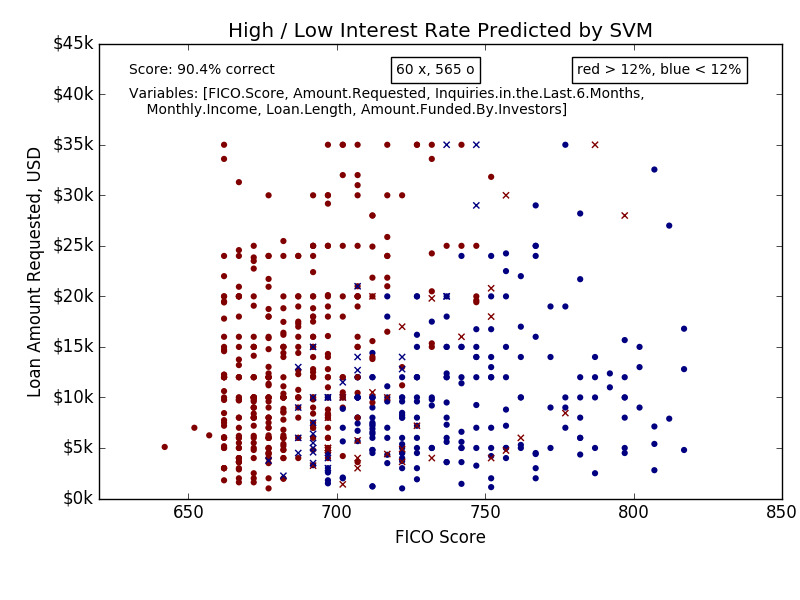
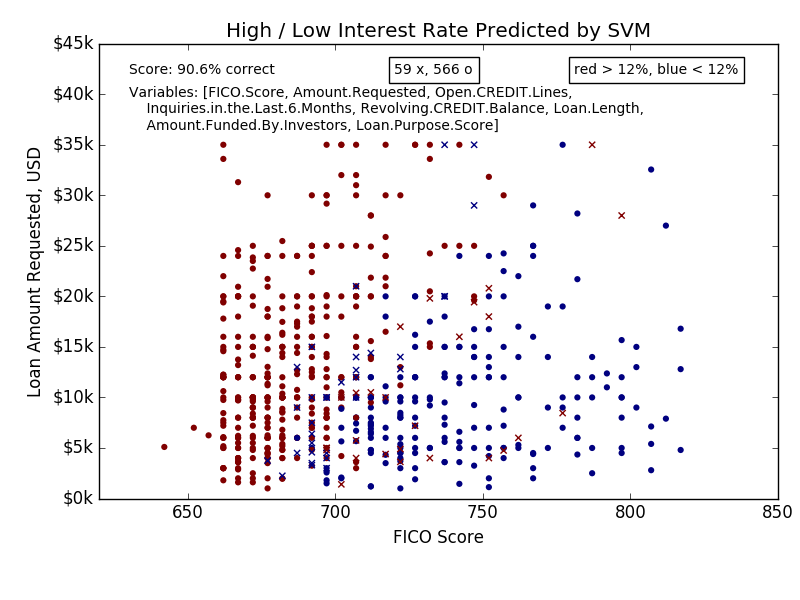
add score, run_opt to log_reg_sm, refactor svm_predict run_opt

diff --git a/logistic_regression_sm.py b/logistic_regression_sm.py
@@ -1,11 +1,22 @@
 # unit 2.4 logistic regression
 
 import numpy as np
+import numpy.random as rnd
 import statsmodels.api as sm
 import pandas as pd
 import matplotlib.pyplot as plt
 import re
 import os
+
+from svm_predict import plot_predict
+
+def get_app_title():
+    "get app title"
+    return 'Logit Regression'
+
+def get_app_file():
+    "get app file prefix"
+    return 'lr_sm_'
 
 def read_data():
     # loansData = pd.read_csv('https://spark-public.s3.amazonaws.com/dataanalysis/loansData.csv')
@@ -84,7 +95,7 @@ def make_plotdir():
 #       logistic distribution, while the probit is the quantile function
 #       of the normal distribution.  See https://en.wikipedia.org/wiki/Logit
 
-def do_logit(loansData, indep_variables):
+def do_logit(loansData, indep_variables, print_out=False):
     # Probability isn't binary, *assume* p<70% won't get the loan.
     #   if p >= 0.70 then 1, else 0
     # Try to calculate Interest.Rate, a dependent variable?
@@ -98,20 +109,29 @@ def do_logit(loansData, indep_variables):
     #    -calculate probability then p <= 12%
     # interest_rate = b + a1 * FICO.Score + a2 * Amount.Requested
     #               = b + a1 * 750 + a2 * 10000
-    print('''interest_rate = b + a1 * FICO.Score + a2 * Amount.Requested
-                  = b + a1 * 750 + a2 * 10000''')
-    print('find p(x) = 1 / (1 + exp(a1*x1 + a2*x2 + b))  "logistic function"')
+    if print_out:
+        print('''interest_rate = b + a1 * FICO.Score + a2 * Amount.Requested
+                      = b + a1 * 750 + a2 * 10000''')
+        print('find p(x) = 1 / (1 + exp(a1*x1 + a2*x2 + b))  "logistic function"')
     
     dep_variables = ['IR_TF']
 #    indep_variables = ['FICO.Score', 'Amount.Requested', 'Intercept']
-    print('Dependent Variable(s):', dep_variables)
-    print('Independent Variables:', indep_variables)
+    if print_out:
+        print('Dependent Variable(s):', dep_variables)
+        print('Independent Variables:', indep_variables)
     
     logit = sm.Logit( loansData['IR_TF'], loansData[indep_variables] )
-    result = logit.fit()
-    print('fit coefficients class', result.params.__class__ , '\n', result.params)
-    print('result index', result.params.index, '\nresult values', result.params.values)
+    result = logit.fit()    # noisy output
+    if print_out:
+        print('fit coefficients class', result.params.__class__ , '\n', result.params)
+        print('result index', result.params.index, '\nresult values', result.params.values)
+
     return result
+
+def fit_logit(loansData, numeric_vars, cutoff=0.5):
+    result = do_logit(loansData, numeric_vars)
+    score, loansData = get_logistic_prob(loansData, result.params, cutoff)
+    return score, result, loansData
 
 # Why do coefficients have opposite sign?  IR_TF lambda is backwards?
 
@@ -206,57 +226,125 @@ def plot_loan_fico(loansData, result, plotdir):
     # plt.legend(['red > 12% interest, blue < 12% interest'])
     plt.savefig(plotdir+'loan_v_fico.png')
 
-#def logistic_prob(params, *vals):
-#    a1 = -params['FICO.Score']
-#    a2 = -params['Amount.Requested']
-#    b  = -params['Intercept']
-#    p  = 1 / (1 + np.exp( b + a1 * fico + a2 * loanAmount ))
-#    return p
+def set_plot_predict(plotdir, app, appf, label, indep_vars, full_df):
+    test_df = full_df[indep_vars]
+    test_y  = full_df['IR_TF']
+    pred_y  = full_df['Pred']
+    plot_predict(plotdir, app, appf, label, indep_vars, test_df, test_y, pred_y)
 
-def set_logistic_prob(loansData, params):
-#    loansData['prob'] = 1 / (1 + np.exp(  ))
-# calc exponent, then apply as above
-    index = params.index
-    loansData['Prob'] = 0
-    for par in index:
-        loansData['Prob'] -= params[par] * loansData[par]
-    # use apply()
-#    loansData['Prob'] = 1 / (1 + np.exp( loansData['Prob'] ))
-    loansData['Prob'] = loansData['Prob'].apply(lambda x: 1 / (1 + np.exp(x)))
-    loansData['Pred'] = loansData['Prob'].apply(lambda x: 0 if x<0.5 else 1)
-    score = sum(loansData['IR_TF'] == loansData['Pred']) / loansData.shape[0]
-    return score, loansData
+# rename do_predict() ?  depends if applied to train or test
+def get_logistic_prob(dframe, params, cutoff=0.5):
+    dframe['Prob'] = 0
+    for par in params.index:
+        dframe['Prob'] -= params[par] * dframe[par]
+#    dframe['Prob'] = 1 / (1 + np.exp( dframe['Prob'] ))
+    dframe['Prob'] = dframe['Prob'].apply(lambda x: 1 / (1 + np.exp(x)))
+    dframe['Pred'] = dframe['Prob'].apply(lambda x: 0 if x<cutoff else 1)
+    score = sum(dframe['IR_TF'] == dframe['Pred']) / dframe.shape[0]
+    return score, dframe
 
+def get_score(clf, vlist, dframe):
+    tr_score, result, loansData = fit_logit(dframe, vlist, cutoff=0.5)
+    return tr_score, result
+
+def random_opt(clf, varlist, init_list, dframe, score_fn=get_score, print_out=False):
+    '''Optimize list by randomly adding variables,
+       accept if score decreases to find local minimum.'''
+
+    vlist = list(init_list)
+    score, result = score_fn(clf, vlist, dframe)
+    if print_out:
+        print("  >>> iter init len %d, iter_score %.4f" % (len(vlist), score))
+    offset = len(vlist)  # offset by length of initial vlist
+    indices = list(range(len(varlist) - offset))
+    rnd.shuffle(indices)
+    for ix in indices:
+        ilist = list(vlist)
+        ilist.append(varlist[ix + offset])
+        iscore, iresult = score_fn(clf, ilist, dframe)
+        if print_out:
+            print("  >>> iter len %d, iter_score %.4f" % (len(ilist), iscore))
+        if iscore > score:
+            vlist = list(ilist)
+            result = iresult
+            score = iscore
+
+    print(">>> try len %d, score %.4f" % (len(vlist), score))
+    print("vlist %s" % (vlist))
+    # return dict ?
+    return score, vlist, result
+
+def run_opt(clf, numeric_vars, dframe, app, appf, plotdir, score_fn=get_score):
+    '''Run randomized optimization with full list of independent numeric variables.
+       Repeat many times to find global minimum.'''
+
+    print('\nall_vars', numeric_vars)
+#    print(">>> run_opt clf params", clf.get_params())
+    init_list = [numeric_vars[0], numeric_vars[1], numeric_vars[2]]
+    opt_list = list(init_list)
+    opt_score, opt_result = score_fn(clf, opt_list, dframe)
+#    opt_raw_list = []
+    for ix in range(len(numeric_vars)):
+        score, vlist, result = random_opt(clf, numeric_vars, init_list, dframe, score_fn)
+#        opt_raw_list.append({'plen': len(vlist), 'pscores': vscores})
+        if score > opt_score:
+            opt_list = vlist
+            opt_score = score
+            opt_result = result
+
+#    do_boxplot(list(map(lambda e: e['pscores'], opt_raw_list)), 
+#        list(map(lambda e: e['plen'], opt_raw_list)), 
+#        app,
+#        "Number of random optimized column names",
+#        plotdir + appf + "opt_params_boxplot")
+    print(">>> opt len %d, opt_score %.4f" % (len(opt_list), opt_score))
+    print("opt_list %s" % (opt_list))
+    print("opt params\n", opt_result.params)
+    return opt_score, opt_list, opt_result
+
+
+# to do: run_opt, kfold cross-validation
 
 # main program
 def main():
     "Main program."
+    app = get_app_title()
+    appf = get_app_file()
     
     loansData, testData = read_data()
     plotdir = make_plotdir()
-    indep_variables = ['FICO.Score', 'Amount.Requested', 'Intercept']
-    result = do_logit(loansData, indep_variables)
+    indep_vars = ['FICO.Score', 'Amount.Requested', 'Intercept']
+    result = do_logit(loansData, indep_vars, print_out=True)
     test_results(result)
     
     plot_fico_logit(result, plotdir)
     plot_loan_logit(result, plotdir)
     plot_loan_fico(loansData, result, plotdir)
     
-    score, loansData = set_logistic_prob(loansData, result.params)
-    print("loansData head\n", loansData[:3])
-    print("score 3:", score)
+    # train score
+    tr_score, loansData = get_logistic_prob(loansData, result.params)
+    # test score
+    score, testData = get_logistic_prob(testData, result.params)
+    print("testData head\n", testData[:3])
+    print("score 3 vars: train %.5f, test %.5f" % (tr_score, score))
+    # plot pseudo-predict from train fit data
+#    set_plot_predict(plotdir, app, appf, "var3f_p5", indep_vars, loansData)
+    set_plot_predict(plotdir, app, appf, "var3_p5", indep_vars, testData)
     
     print('\nplots created: fico_logistic.png, loan_logistic.png, loan_v_fico.png')
 
 # similar processing to sklearn
 #    loans_df, loans_y, test_df, test_y, numeric_vars = load_data(loansData, testData)
-    numeric_vars = ['FICO.Score', 'Amount.Requested', 'Home.Type', 'Revolving.CREDIT.Balance', 'Monthly.Income', 'Open.CREDIT.Lines', 'Debt.To.Income.Ratio', 'Loan.Length', 'Loan.Purpose.Score', 'Amount.Funded.By.Investors', 'Inquiries.in.the.Last.6.Months']
-    result = do_logit(loansData, numeric_vars)
-    score, loansData = set_logistic_prob(loansData, result.params)
+    numeric_vars = ['FICO.Score', 'Amount.Requested', 'Intercept', 'Home.Type', 'Revolving.CREDIT.Balance', 'Monthly.Income', 'Open.CREDIT.Lines', 'Debt.To.Income.Ratio', 'Loan.Length', 'Loan.Purpose.Score', 'Amount.Funded.By.Investors', 'Inquiries.in.the.Last.6.Months']
+#    result = do_logit(loansData, numeric_vars, print_out=True)
+#    score, loansData = set_logistic_prob(loansData, result.params)
+    tr_score, result, loansData = fit_logit(loansData, numeric_vars)
+    score, testData = get_logistic_prob(testData, result.params)
 #    print("loansData head\n", loansData[:3])
-    print("score 11:", score)
-
+    print("score 11 vars: train %.5f, test %.5f" % (tr_score, score))
+    set_plot_predict(plotdir, app, appf, "var11_p5", numeric_vars, testData)
     
+    opt_score, opt_list, opt_result = run_opt("lrsm", numeric_vars, loansData, app, appf, plotdir)
 
 if __name__ == '__main__':
     main()

diff --git a/svm_predict.py b/svm_predict.py
@@ -141,13 +141,13 @@ def load_data():
     loans_y = pd.Series( loansData[dep_variables] )
     test_y = pd.Series( testData[dep_variables] )
     
-    all_numeric_vars = ['FICO.Score', 'Amount.Requested', 'Home.Type', 'Revolving.CREDIT.Balance', 'Monthly.Income', 'Open.CREDIT.Lines', 'Debt.To.Income.Ratio', 'Loan.Length', 'Loan.Purpose.Score', 'Amount.Funded.By.Investors', 'Inquiries.in.the.Last.6.Months']
-    print('\nall_vars\n', all_numeric_vars)
+    numeric_vars = ['FICO.Score', 'Amount.Requested', 'Home.Type', 'Revolving.CREDIT.Balance', 'Monthly.Income', 'Open.CREDIT.Lines', 'Debt.To.Income.Ratio', 'Loan.Length', 'Loan.Purpose.Score', 'Amount.Funded.By.Investors', 'Inquiries.in.the.Last.6.Months']
+    print('\nall_vars\n', numeric_vars)
     
-    loans_df = pd.DataFrame( loansData[all_numeric_vars] )
-    test_df = pd.DataFrame( testData[all_numeric_vars] )
+    loans_df = pd.DataFrame( loansData[numeric_vars] )
+    test_df = pd.DataFrame( testData[numeric_vars] )
     
-    return loans_df, loans_y, test_df, test_y, all_numeric_vars
+    return loans_df, loans_y, test_df, test_y, numeric_vars
 
 def scale_train_data(loans_df, print_out=False):
     '''Scale data for svm transform, read dataframe, return nparray.'''
@@ -236,6 +236,7 @@ def cross_validate(clf, loans_X, loans_y, print_out=False):
     if print_out:
         print("CV scores mean %.5f +- %.5f" % (score, 2.0 * score_std))
         print("CV raw scores", scores)
+    # return dict ?
     return score, score_std, scores
 
 def get_cv_score(clf, varlist, loans_df, loans_y, rescale=True):
@@ -246,12 +247,12 @@ def get_cv_score(clf, varlist, loans_df, loans_y, rescale=True):
         loans_X, my_scaler = scale_train_data( loans_X )
     return cross_validate(clf, loans_X, loans_y)
 
-def random_opt(clf, varlist, init_list, loans_df, loans_y, rescale=True, print_out=False):
+def random_opt(clf, varlist, init_list, loans_df, loans_y, score_fn=get_cv_score, rescale=True, print_out=False):
     '''Optimize list by randomly adding variables,
        accept if score decreases to find local minimum.'''
 
     vlist = list(init_list)
-    score, vstd, vscores = get_cv_score(clf, vlist, loans_df, loans_y, rescale)
+    score, vstd, vscores = score_fn(clf, vlist, loans_df, loans_y, rescale)
     if print_out:
         print("  >>> iter init len %d, iter_score %.4f" % (len(vlist), score))
     offset = len(vlist)  # offset by length of initial vlist
@@ -260,29 +261,30 @@ def random_opt(clf, varlist, init_list, loans_df, loans_y, rescale=True, print_o
     for ix in indices:
         ilist = list(vlist)
         ilist.append(varlist[ix + offset])
-        iscore, istd, iscores = get_cv_score(clf, ilist, loans_df, loans_y, rescale)
+        iscore, istd, iscores = score_fn(clf, ilist, loans_df, loans_y, rescale)
         if print_out:
             print("  >>> iter len %d, iter_score %.4f" % (len(ilist), iscore))
         if iscore > score:
             vlist = list(ilist)
             score, vstd, vscores = iscore, istd, iscores
 
-    print(">>> try len %d, score %.4f +- %.4f" % (len(vlist), score, vstd))
+    print(">>> try len %d, score %.4f +- %.4f" % (len(vlist), score, 2 * vstd))
     print("vlist %s" % (vlist))
+    # return dict ?
     return score, vlist, vscores
 
-def run_opt(clf, all_numeric_vars, loans_df, loans_y, app, appf, plotdir, rescale=True):
+def run_opt(clf, numeric_vars, loans_df, loans_y, app, appf, plotdir, score_fn=get_cv_score, rescale=True):
     '''Run randomized optimization with full list of independent numeric variables.
        Repeat many times to find global minimum.'''
 
-    print('\nall_vars', all_numeric_vars)
+    print('\nall_vars', numeric_vars)
     print(">>> run_opt clf params", clf.get_params())
-    init_list = [all_numeric_vars[0], all_numeric_vars[1]]
+    init_list = [numeric_vars[0], numeric_vars[1]]
     opt_list = list(init_list)
-    opt_score, ostd, oscores = get_cv_score(clf, opt_list, loans_df, loans_y, rescale)
+    opt_score, ostd, oscores = score_fn(clf, opt_list, loans_df, loans_y, rescale)
     opt_raw_list = []
-    for ix in range(len(all_numeric_vars)):
-        score, vlist, vscores = random_opt(clf, all_numeric_vars, init_list, loans_df, loans_y, rescale)
+    for ix in range(len(numeric_vars)):
+        score, vlist, vscores = random_opt(clf, numeric_vars, init_list, loans_df, loans_y, score_fn, rescale)
         opt_raw_list.append({'plen': len(vlist), 'pscores': vscores})
         if score > opt_score:
             opt_list = vlist
@@ -302,8 +304,8 @@ def main():
     '''Main program.'''
     app = get_app_title()
     appf = get_app_file()
-    loans_df, loans_y, test_df, test_y, all_numeric_vars = load_data()
-    indep_vars = all_numeric_vars
+    loans_df, loans_y, test_df, test_y, numeric_vars = load_data()
+    indep_vars = numeric_vars
     loans_X, my_scaler = scale_train_data(loans_df, print_out=True)
     test_X = scale_test_data(my_scaler, test_df)
     plotdir = make_plotdir()
@@ -313,7 +315,7 @@ def main():
     pred_y = do_predict(clf, test_X, test_y, print_out=True)   
     plot_predict(plotdir, app, appf, "allvar", indep_vars, test_df, test_y, pred_y)
     
-    explore_params(loans_X, loans_y, plotdir, app, appf)
+#    explore_params(loans_X, loans_y, plotdir, app, appf)
     
     # test optimization sub-method
     clf = svm.SVC(kernel='linear', C=1, cache_size=1000)
@@ -323,7 +325,7 @@ def main():
 
 #   run optimization routine    
     clf = svm.SVC(kernel='linear', C=1, cache_size=1000)
-    opt_score, opt_list = run_opt(clf, all_numeric_vars, loans_df, loans_y, app, appf, plotdir)
+    opt_score, opt_list = run_opt(clf, numeric_vars, loans_df, loans_y, app, appf, plotdir)
 # optimums found all have the same score within std dev: 0.89 +- 0.03
 # svm is therefore less influenced by parameters chosen than naive_bayes
 
